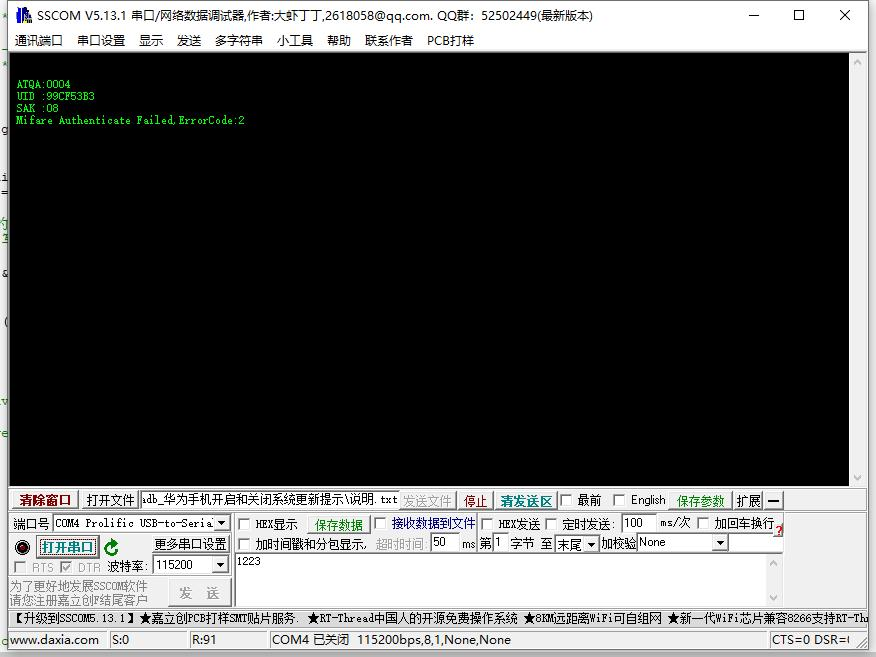
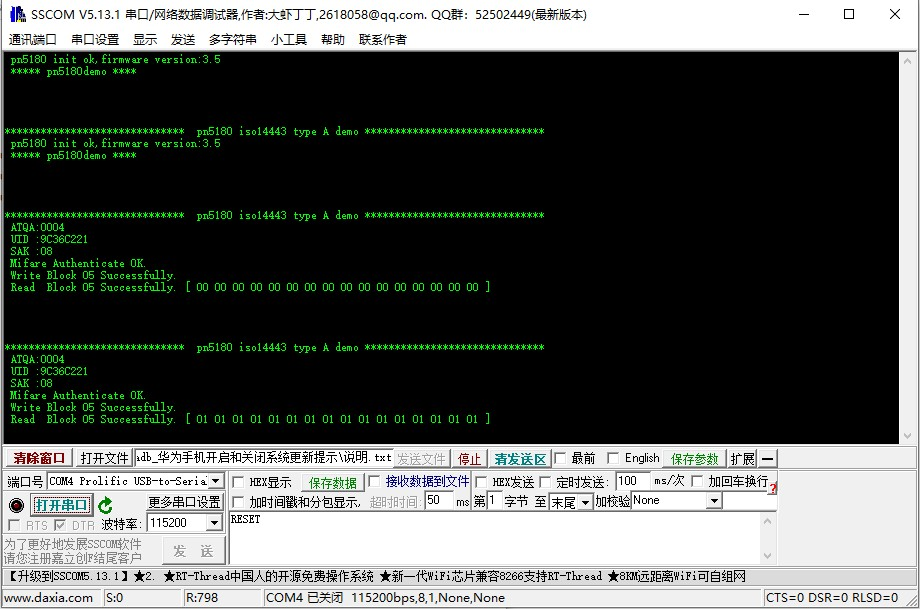
添加ISO14443 TYPE A 读写卡API

Changed region(s): [[0.0, 0.0, 1.0, 0.9984], [0.2158, 0.468, 0.524, 0.4992], [0.8938, 0.0, 0.9247, 0.0312]]

diff --git a/README.md b/README.md
@@ -15,7 +15,7 @@
 # ISO14443A-M1卡读卡测试
 ---
 
-**M1卡的读写我还没有完全调通，卡在了身份认证阶段。**
+**M1卡多张卡同事扫的时候防冲撞还没有做好，持续更新，如果是单张卡扫描已经测试通过，读写卡效果如下：**
 
 ![image](./m1-hardware.jpg)
 ![image](./m1-result.jpg)
